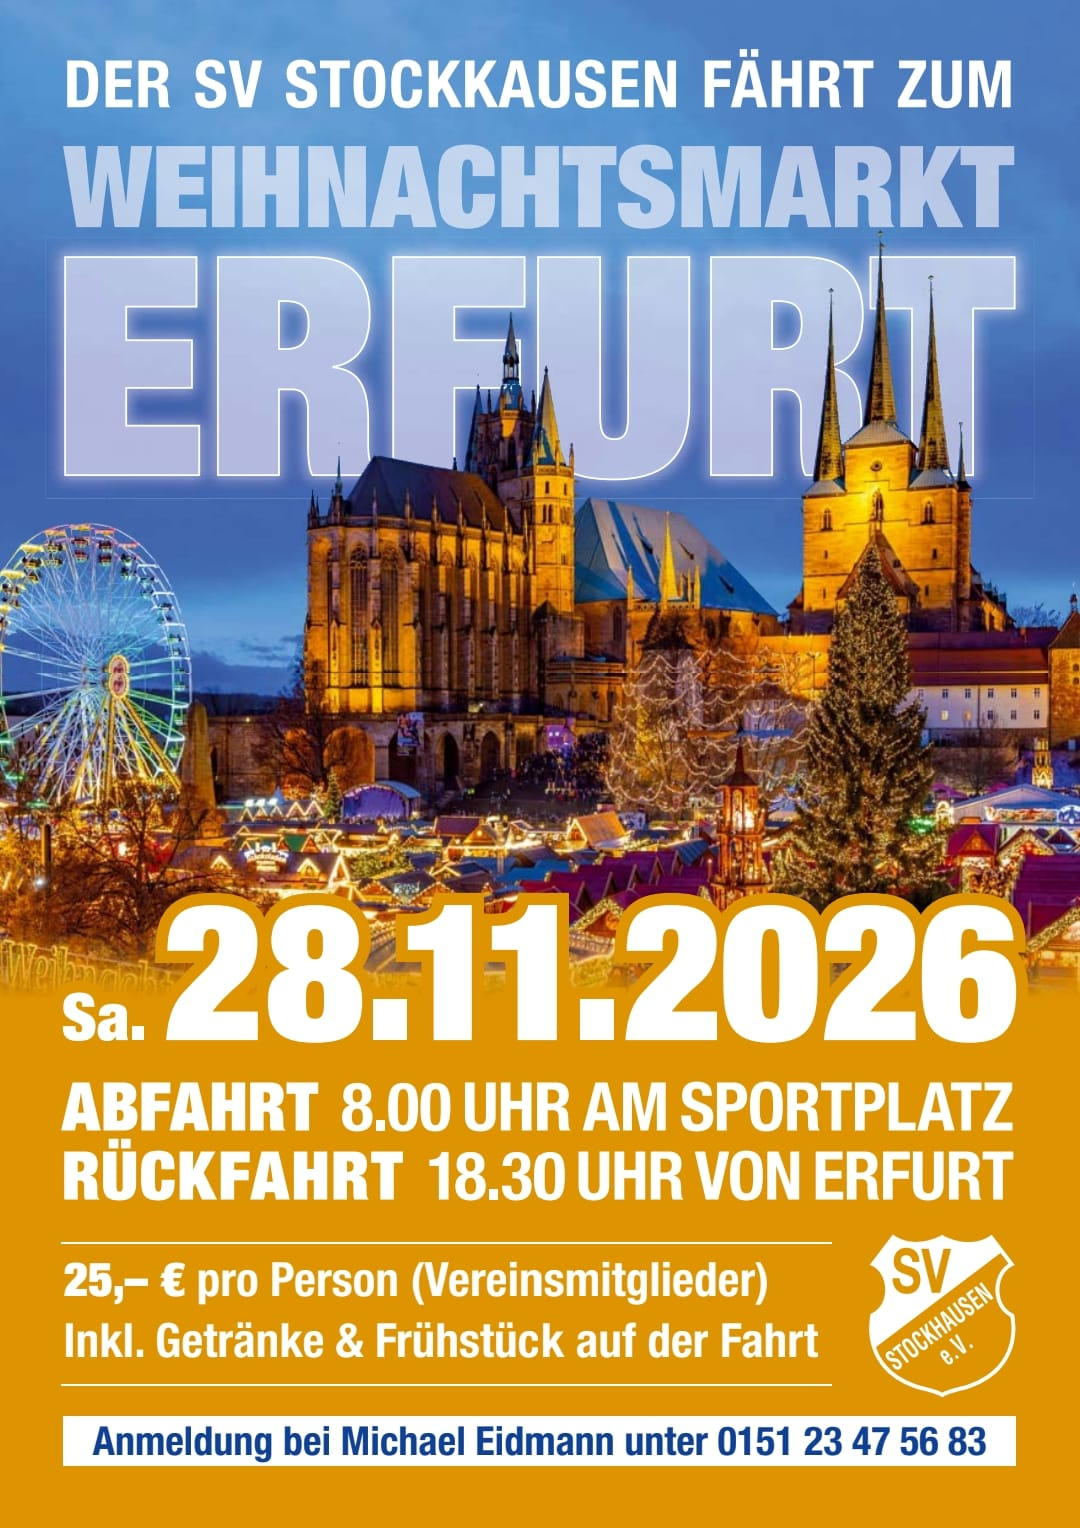
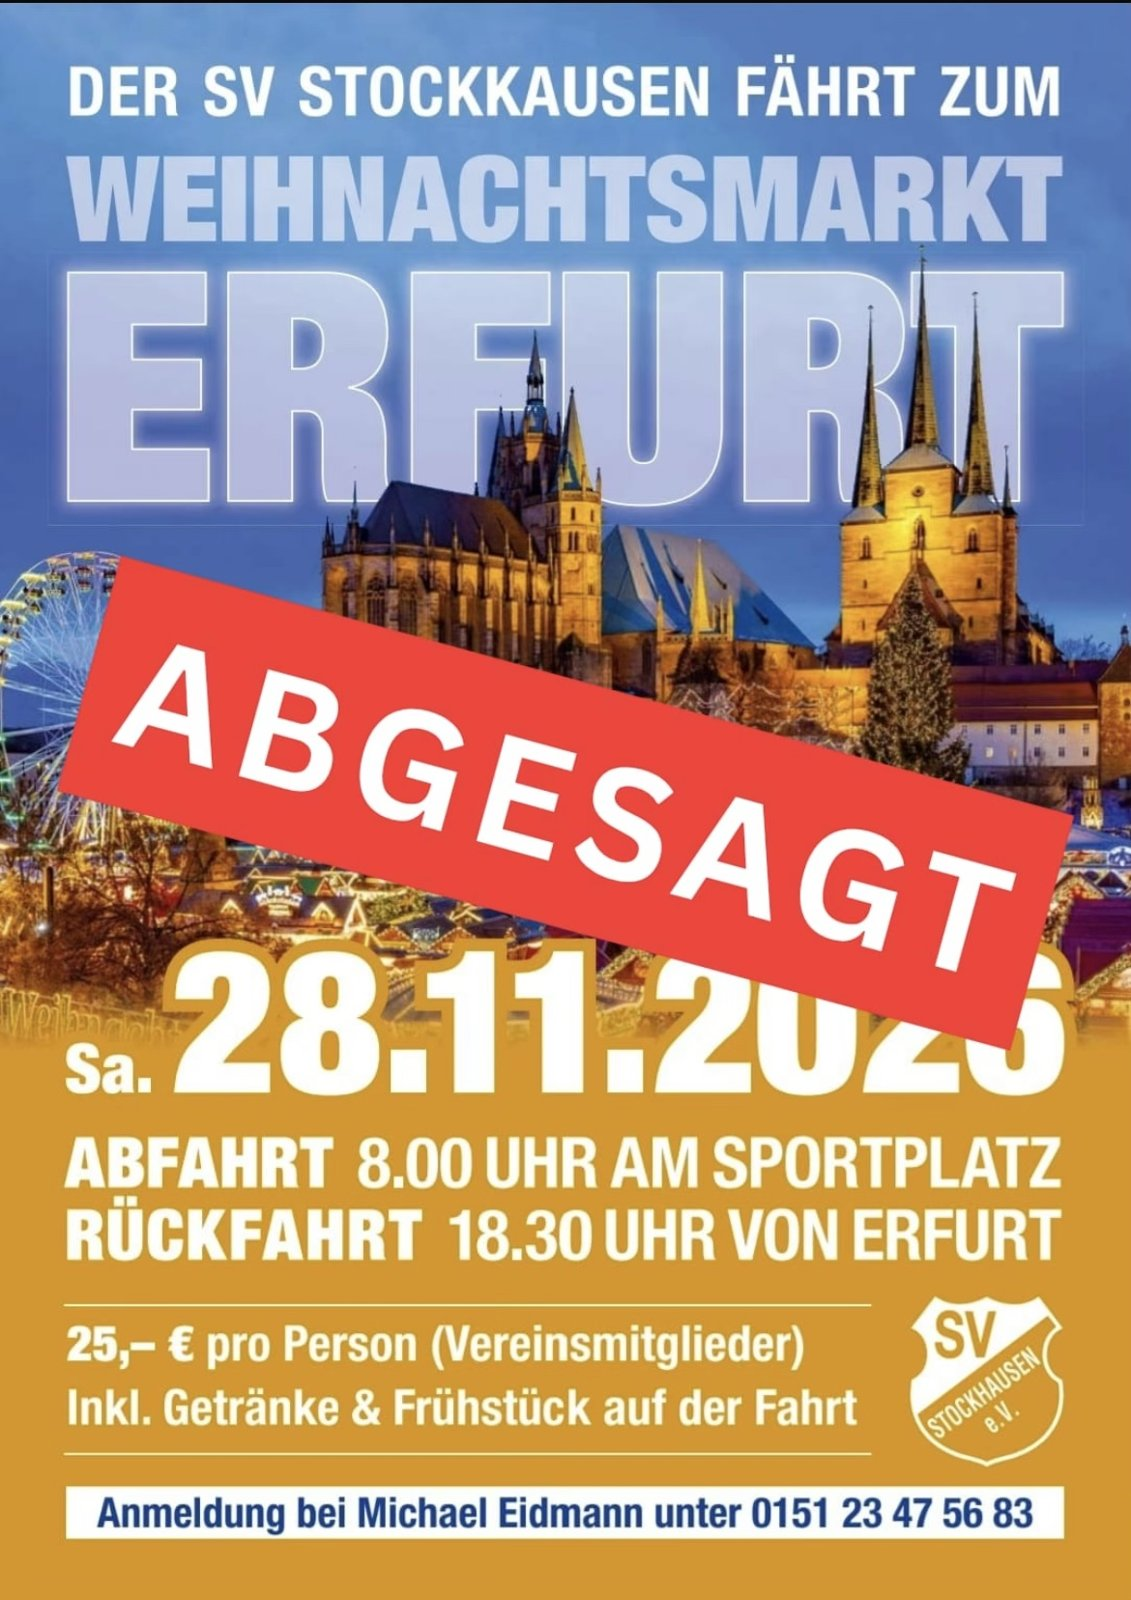
feat: Abgesagte Termine kennzeichnen – SV-Fahrt nach Erfurt abgesagt
Claude-Session: https://claude.ai/code/session_016PhBo5vEGK1Misz6Nff9AW

diff --git a/src/lib/ics.ts b/src/lib/ics.ts
@@ -49,7 +49,7 @@ function falten(zeile: string): string {
 }
 
 function ereignis(t: Termin, seite: string): string[] {
-  const { titel, datum, bis, beginn, ende, ort, verein, text } = t.data;
+  const { titel, datum, bis, beginn, ende, ort, verein, text, abgesagt } = t.data;
   const zeilen = ['BEGIN:VEVENT', `UID:${t.id}@stockhausen-online.de`, `DTSTAMP:${new Date().toISOString().replace(/[-:]/g, '').slice(0, 15)}Z`];
   if (beginn) {
     zeilen.push(`DTSTART;TZID=Europe/Berlin:${kompakt(datum)}T${zeit(beginn)}`);
@@ -58,7 +58,8 @@ function ereignis(t: Termin, seite: string): string[] {
     zeilen.push(`DTSTART;VALUE=DATE:${kompakt(datum)}`);
     zeilen.push(`DTEND;VALUE=DATE:${kompakt(folgetag(bis ?? datum))}`);
   }
-  zeilen.push(`SUMMARY:${escape(titel)}`);
+  zeilen.push(`SUMMARY:${escape(abgesagt ? `Abgesagt: ${titel}` : titel)}`);
+  if (abgesagt) zeilen.push('STATUS:CANCELLED');
   if (ort) zeilen.push(`LOCATION:${escape(`${ort}, Stockhausen, 36358 Herbstein`)}`);
   zeilen.push(`DESCRIPTION:${escape([text, verein && `Veranstalter: ${verein}`].filter(Boolean).join('\n'))}`);
   zeilen.push(`URL:${seite}`);

diff --git a/src/lib/strukturiert.ts b/src/lib/strukturiert.ts
@@ -35,7 +35,7 @@ export function veranstaltungen(termine: Termin[], plakatBild: (id?: string) => 
         name: d.titel,
         startDate: zeitpunkt(d.datum, d.beginn),
         endDate: d.bis ? zeitpunkt(d.bis, d.ende) : d.ende ? zeitpunkt(d.datum, d.ende) : undefined,
-        eventStatus: 'https://schema.org/EventScheduled',
+        eventStatus: d.abgesagt ? 'https://schema.org/EventCancelled' : 'https://schema.org/EventScheduled',
         eventAttendanceMode: 'https://schema.org/OfflineEventAttendanceMode',
         location: { ...ort, name: d.ort ? `${d.ort}, Stockhausen` : 'Stockhausen', address: { ...ort.address, streetAddress: strasse } },
         organizer: d.verein ? { '@type': 'Organization', name: d.verein } : undefined,

diff --git a/src/content.config.ts b/src/content.config.ts
@@ -21,6 +21,7 @@ const termine = defineCollection({
     // weitere beteiligte Vereine: Termin erscheint auch auf deren Vereinsseite
     mit: z.array(z.string()).optional(),
     oeffentlich: z.boolean().optional(),
+    abgesagt: z.boolean().optional(),
     text: z.string().optional(),
     plakat: z.string().optional(),
     link: z.string().url().optional(),

diff --git a/CLAUDE.md b/CLAUDE.md
@@ -10,6 +10,7 @@ Dorfseite für 36358 Herbstein-Stockhausen. Astro 5, statisch, Hosting über Git
   Abgelaufene Kacheln aus `aktuelles.ts` (aktiv() === false) wandern automatisch in den Rückblick (Feld `datum` für die Reihenfolge).
 - Termine: `src/content/termine.yaml` (Felder siehe Kommentar in der Datei). Vergangene Termine fallen automatisch weg.
   Termine der Feuerwehr erscheinen nur auf der Feuerwehr-Seite, nicht auf Startseite, /termine/ und im Kalender-Abo (`dorfTermine()`, `nurBeimVerein` in `src/lib/termine.ts`); Ausnahme mit `oeffentlich: true` (z. B. Nachtübung mit Blaulichtabend).
+  Abgesagte Termine: `abgesagt: true` (bleibt sichtbar mit rotem „Abgesagt“, im Kalender STATUS:CANCELLED), Plakat ggf. durch die abgesagte Fassung ersetzen.
 - Plakate: Bild nach `src/assets/plakate/`, Eintrag in `src/content/plakate.yaml`. Nach `gueltig_bis` → Archiv.
   Jedes Plakat hat eine eigene Seite `/plakate/<id>/` (Vorschaubild beim Teilen = Plakat, Knopf „Teilen“ auf der Plakatwand);
   `/plakate/` selbst zeigt beim Teilen eine Collage der vier zuletzt eingetragenen aktuellen Plakate (`src/pages/plakate/vorschau.jpg.ts`, entsteht beim Build).
